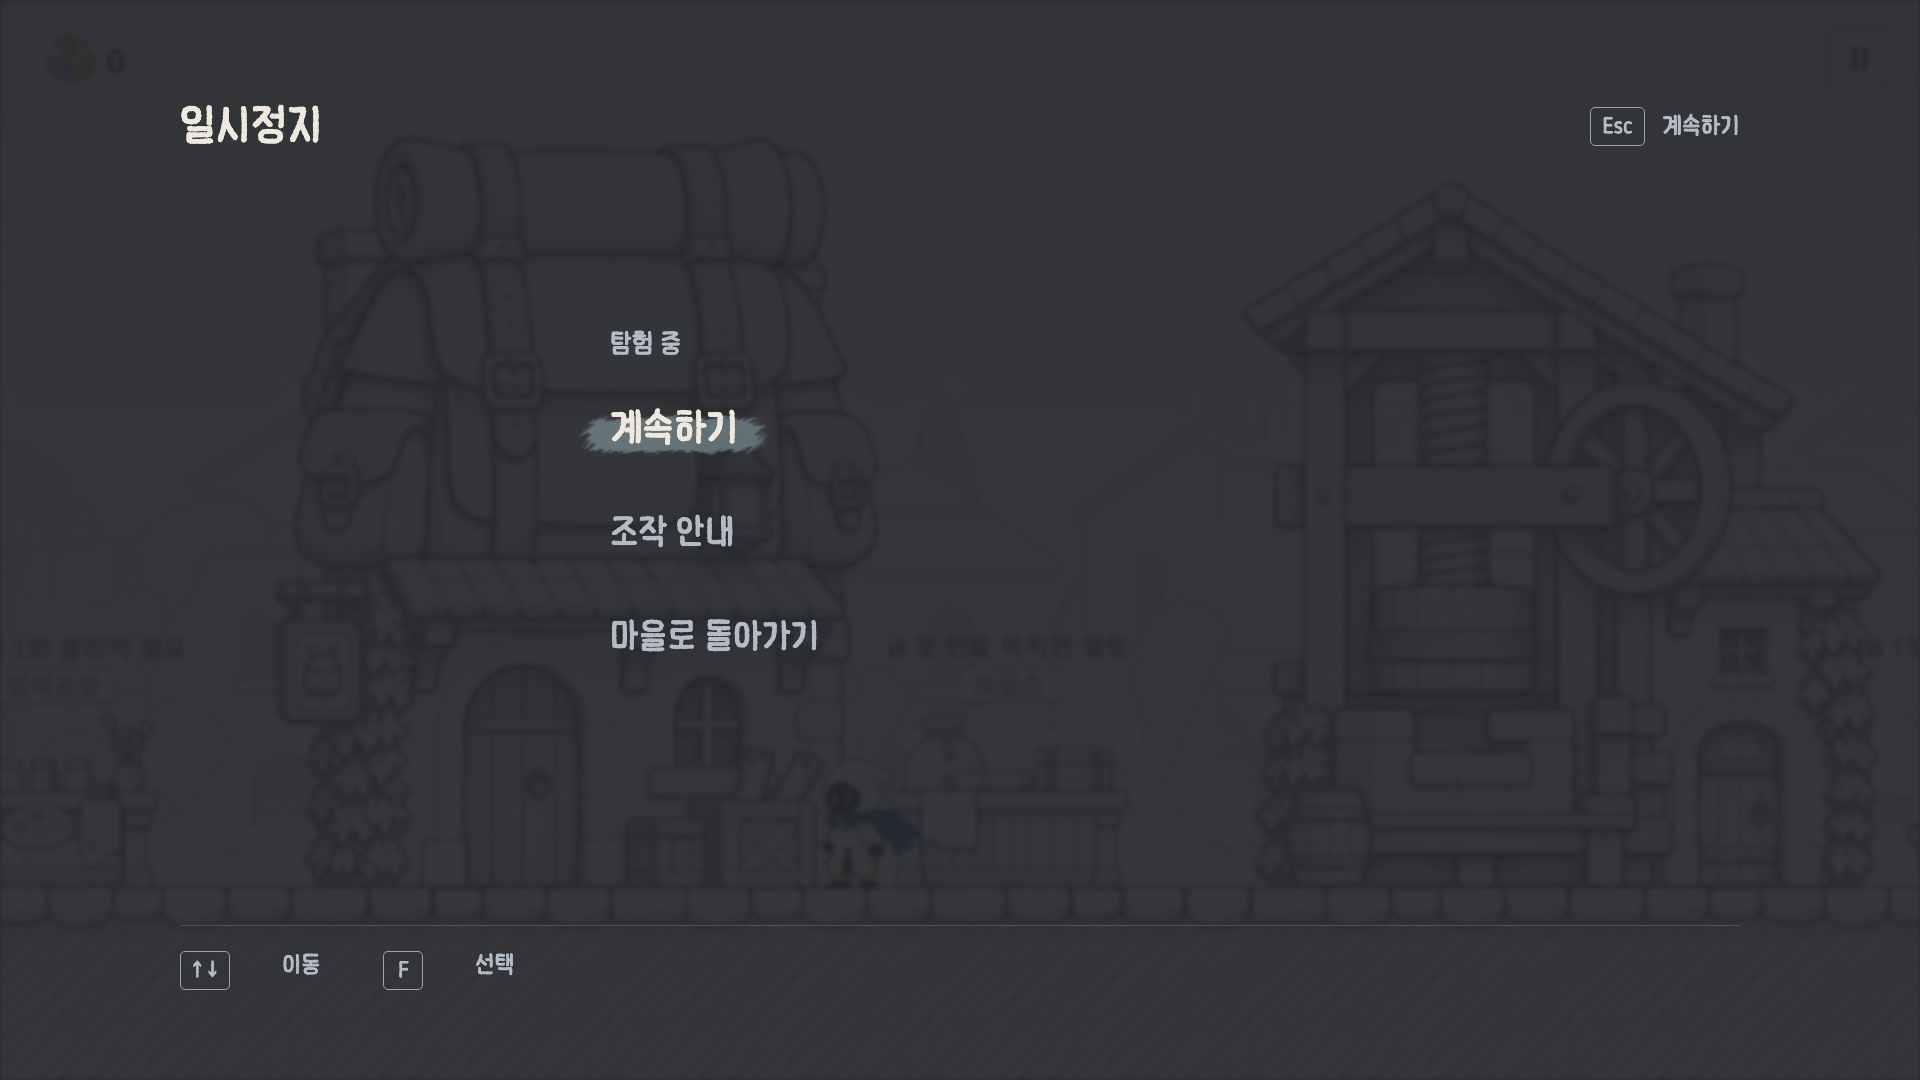
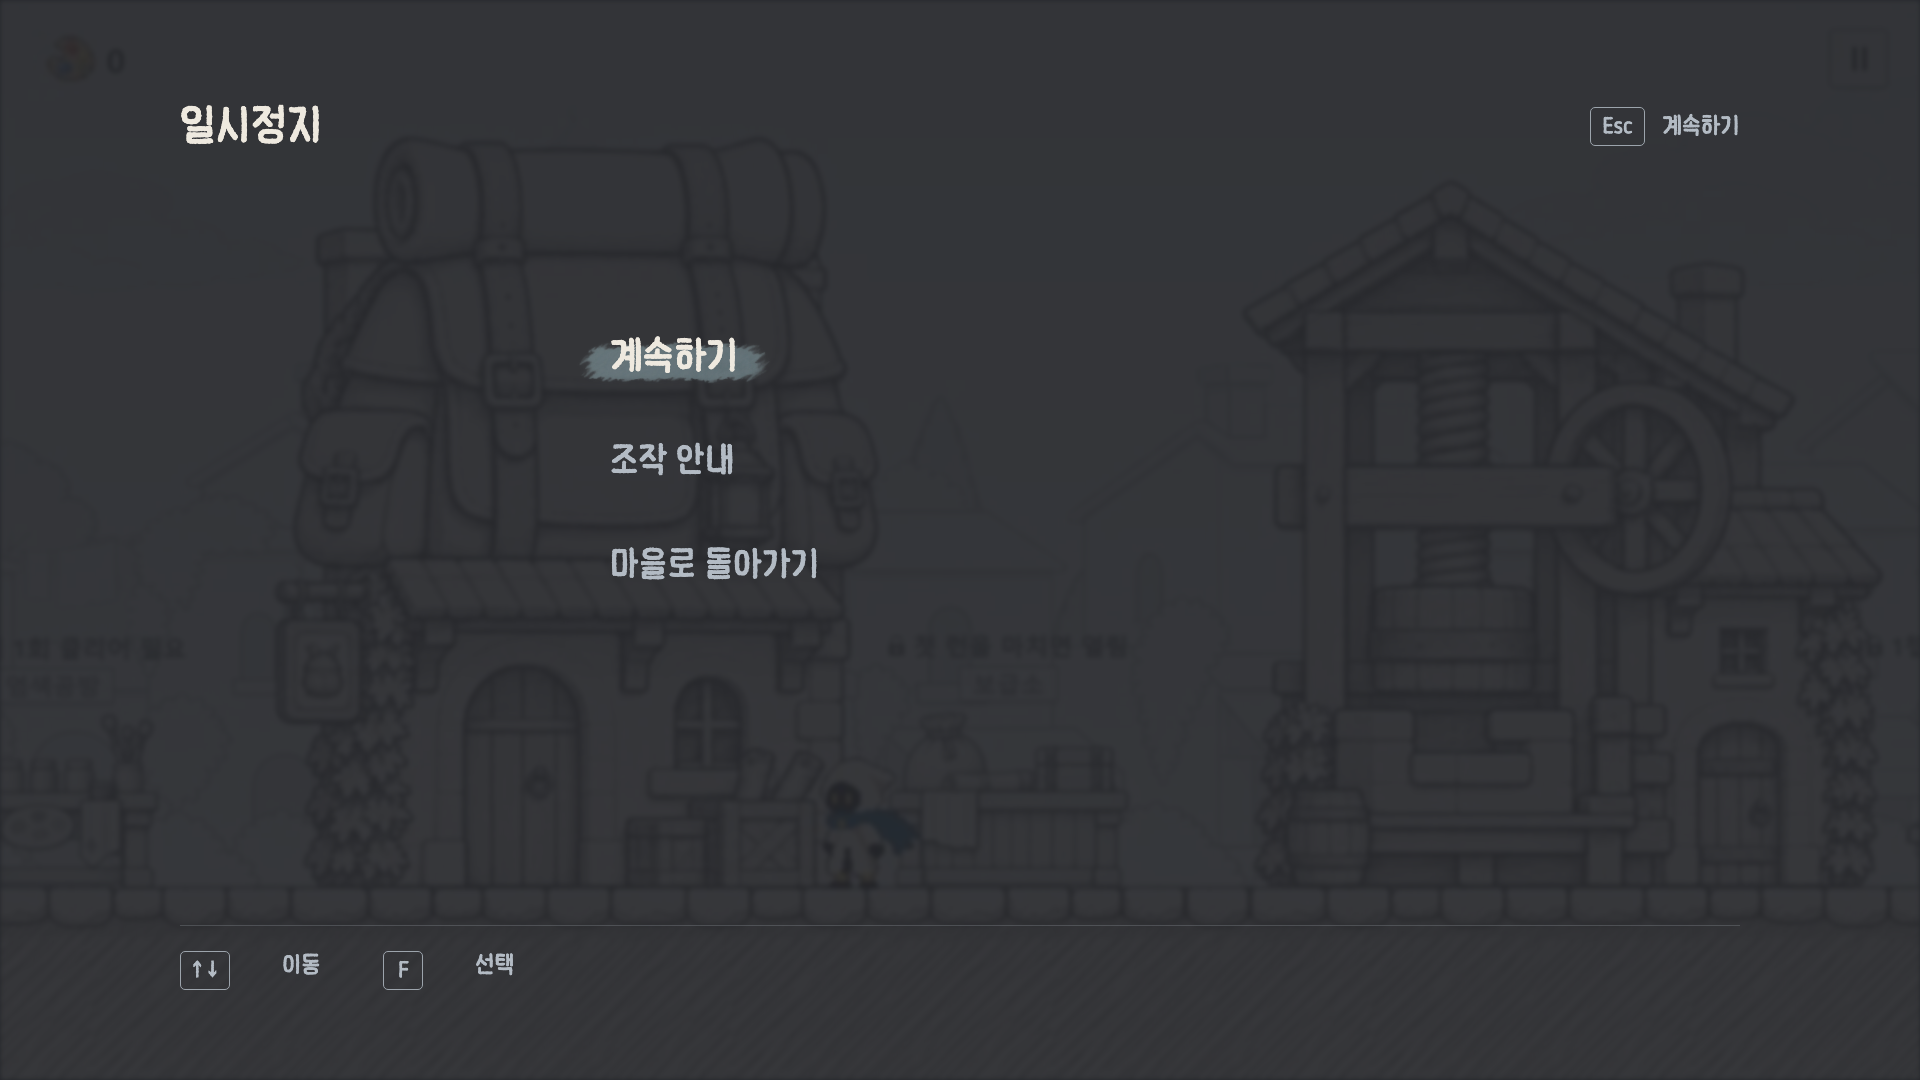
design: remove pause location subtitles

Changed region(s): [[0.2812, 0.3056, 0.4375, 0.6111]]

diff --git a/ui/work/theme/ink-pixel-v1/pause-menu-v1/index.html b/ui/work/theme/ink-pixel-v1/pause-menu-v1/index.html
@@ -5,7 +5,7 @@ const params=new URLSearchParams(location.search);let context=params.get('contex
 const main=document.querySelector('#main'),foot=document.querySelector('#foot');
 function key(s){return '<kbd>'+s+'</kbd>'}function choice(label,action,extra=''){return `<button class="choice ${extra}" data-action="${action}">${label}</button>`}
 function render(){main.innerHTML='<header><h1>'+({pause:'일시정지',help:'조작 안내',confirm:'마을로 돌아가기',title:'타이틀로 돌아가기'}[view]||'일시정지')+'</h1><span>'+key('Esc')+' '+(view==='pause'?'계속하기':'뒤로')+'</span></header>';foot.innerHTML=key('↑ ↓')+'이동　 '+key('F')+'선택';
-if(view==='pause'){main.innerHTML+=`<section class="menu"><h2>${context==='village'?'시작 마을':'탐험 중'}</h2><div class="choices">${choice('계속하기','resume')}${choice('조작 안내','help')}${choice(context==='village'?'타이틀로':'마을로 돌아가기',context==='village'?'title':'confirm')}</div></section>`}
+if(view==='pause'){main.innerHTML+=`<section class="menu"><div class="choices">${choice('계속하기','resume')}${choice('조작 안내','help')}${choice(context==='village'?'타이틀로':'마을로 돌아가기',context==='village'?'title':'confirm')}</div></section>`}
 if(view==='help'){const row=(name,keys)=>`<div class="line"><span>${name}</span><span class="keys">${keys.map(key).join('')}</span></div>`;main.innerHTML+=`<div class="guide"><section><h2>이동</h2>${row('이동',['←','→'])}${row('점프 · 2단 점프',['Space'])}${row('대시',['Shift'])}${row('발판 내려가기',['↓','Space'])}</section><section><h2>전투</h2>${row('무기 1 · 기본 공격',['Q'])}${row('무기 1 · 스킬',['E'])}${row('무기 2 · 기본 공격',['W'])}${row('무기 2 · 스킬',['R'])}</section><section><h2>탐험</h2>${row('상호작용',['F'])}${row('가방 · 장비',['I'])}${row('전체 지도',['M'])}${row('포탈 설치',['C','V'])}<p class="note">포탈 앞에서 F로 이동</p></section></div>`;foot.innerHTML=key('Esc')+'일시정지로 돌아가기';}
 if(view==='confirm'||view==='title'){let village=view==='confirm';main.innerHTML+=`<section class="confirm"><h2>${village?'이번 도전을 마칠까요?':'타이틀로 돌아갈까요?'}</h2><p>${village?'마을로 돌아가면 이번 도전이 종료됩니다.<br>지금 진행 중인 도전을 이어 할 수 없습니다.':'현재 마을을 나가 타이틀 화면으로 이동합니다.'}</p><div class="choices">${choice('취소','pause')}${choice(village?'도전 종료 · 마을로':'타이틀로','leave','danger')}</div></section>`;foot.innerHTML=key('← →')+'이동　 '+key('F')+'선택　 '+key('Esc')+'취소';}
 if(view==='resume'||view==='leave'){main.innerHTML='<div class="demo">'+(view==='resume'?'게임 화면으로 복귀':'화면 전환 확인')+'<small>디자인 검토용 · 실제 게임에는 연결되지 않았습니다.</small><button class="choice" data-action="pause">일시정지 시안 다시 보기</button></div>';foot.innerHTML='';}
